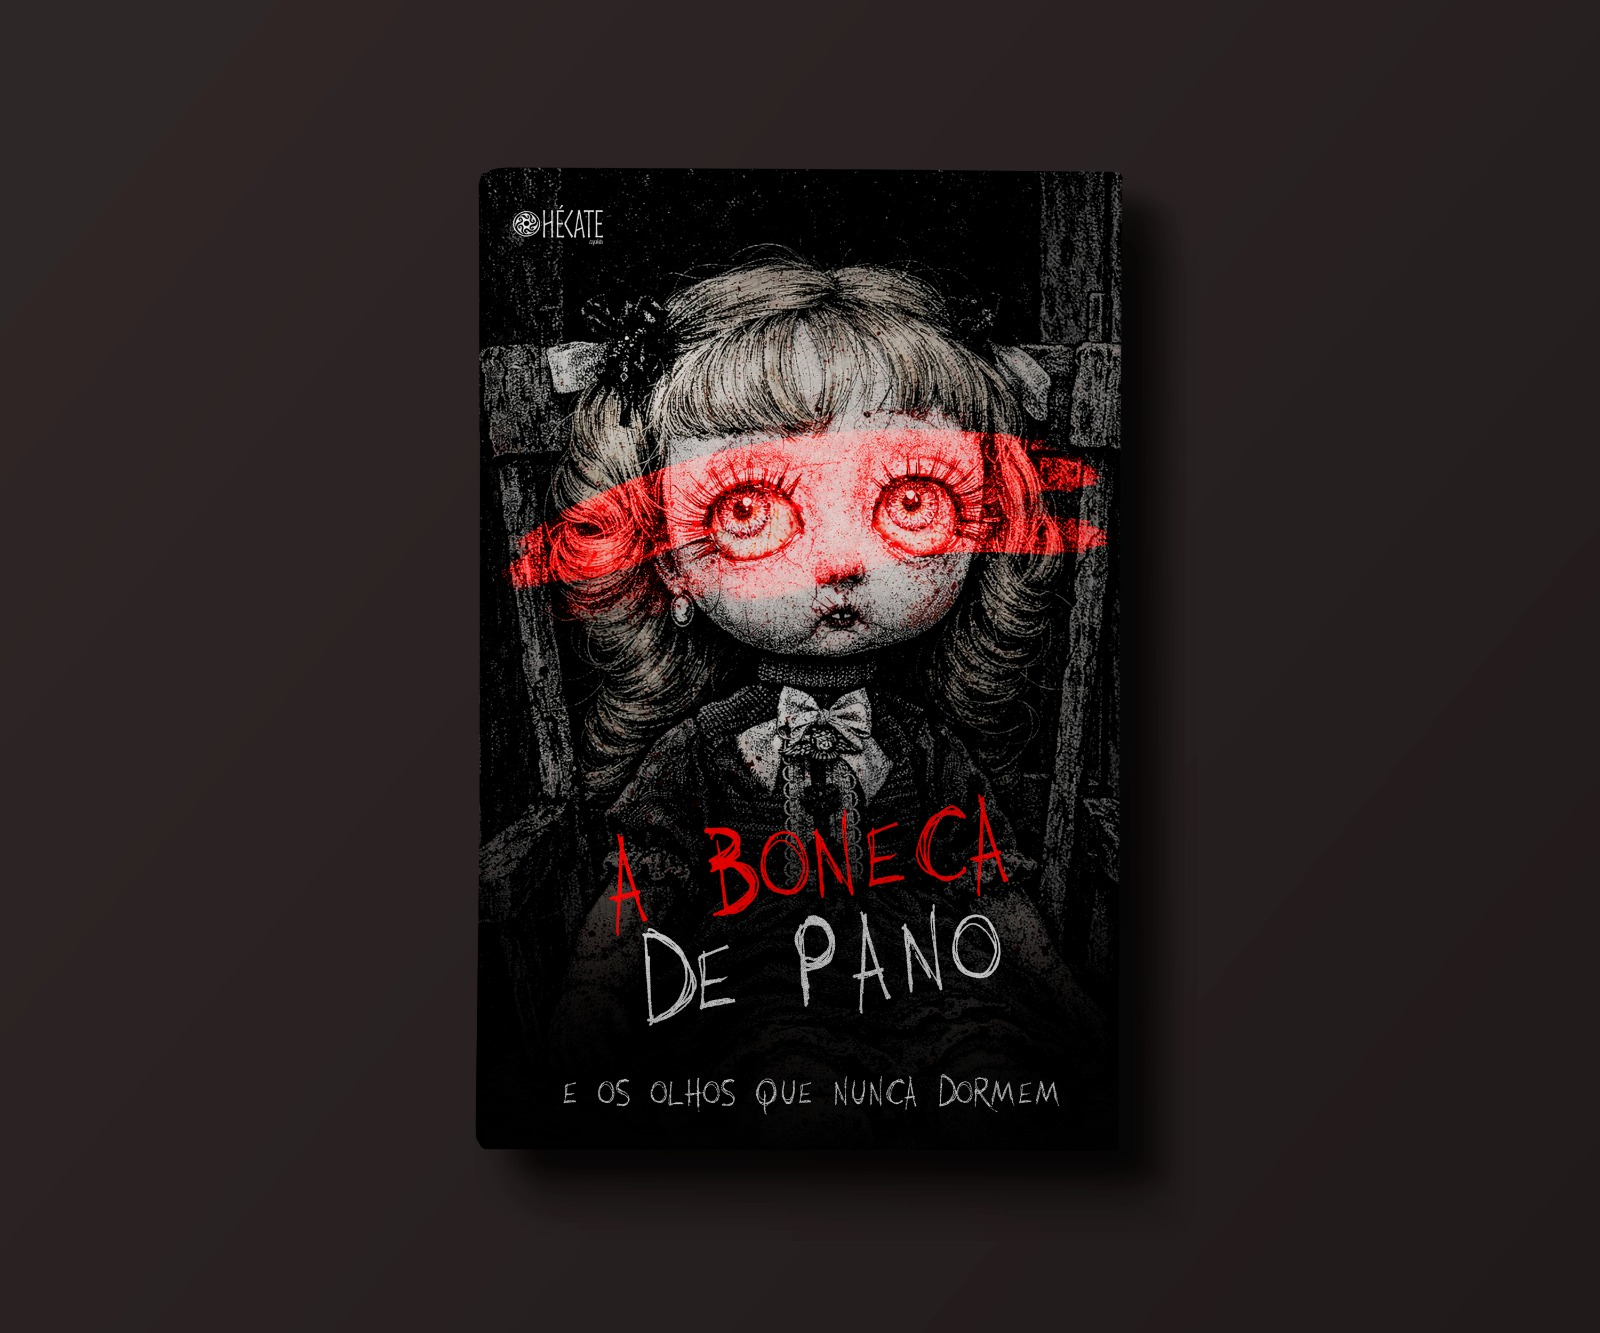
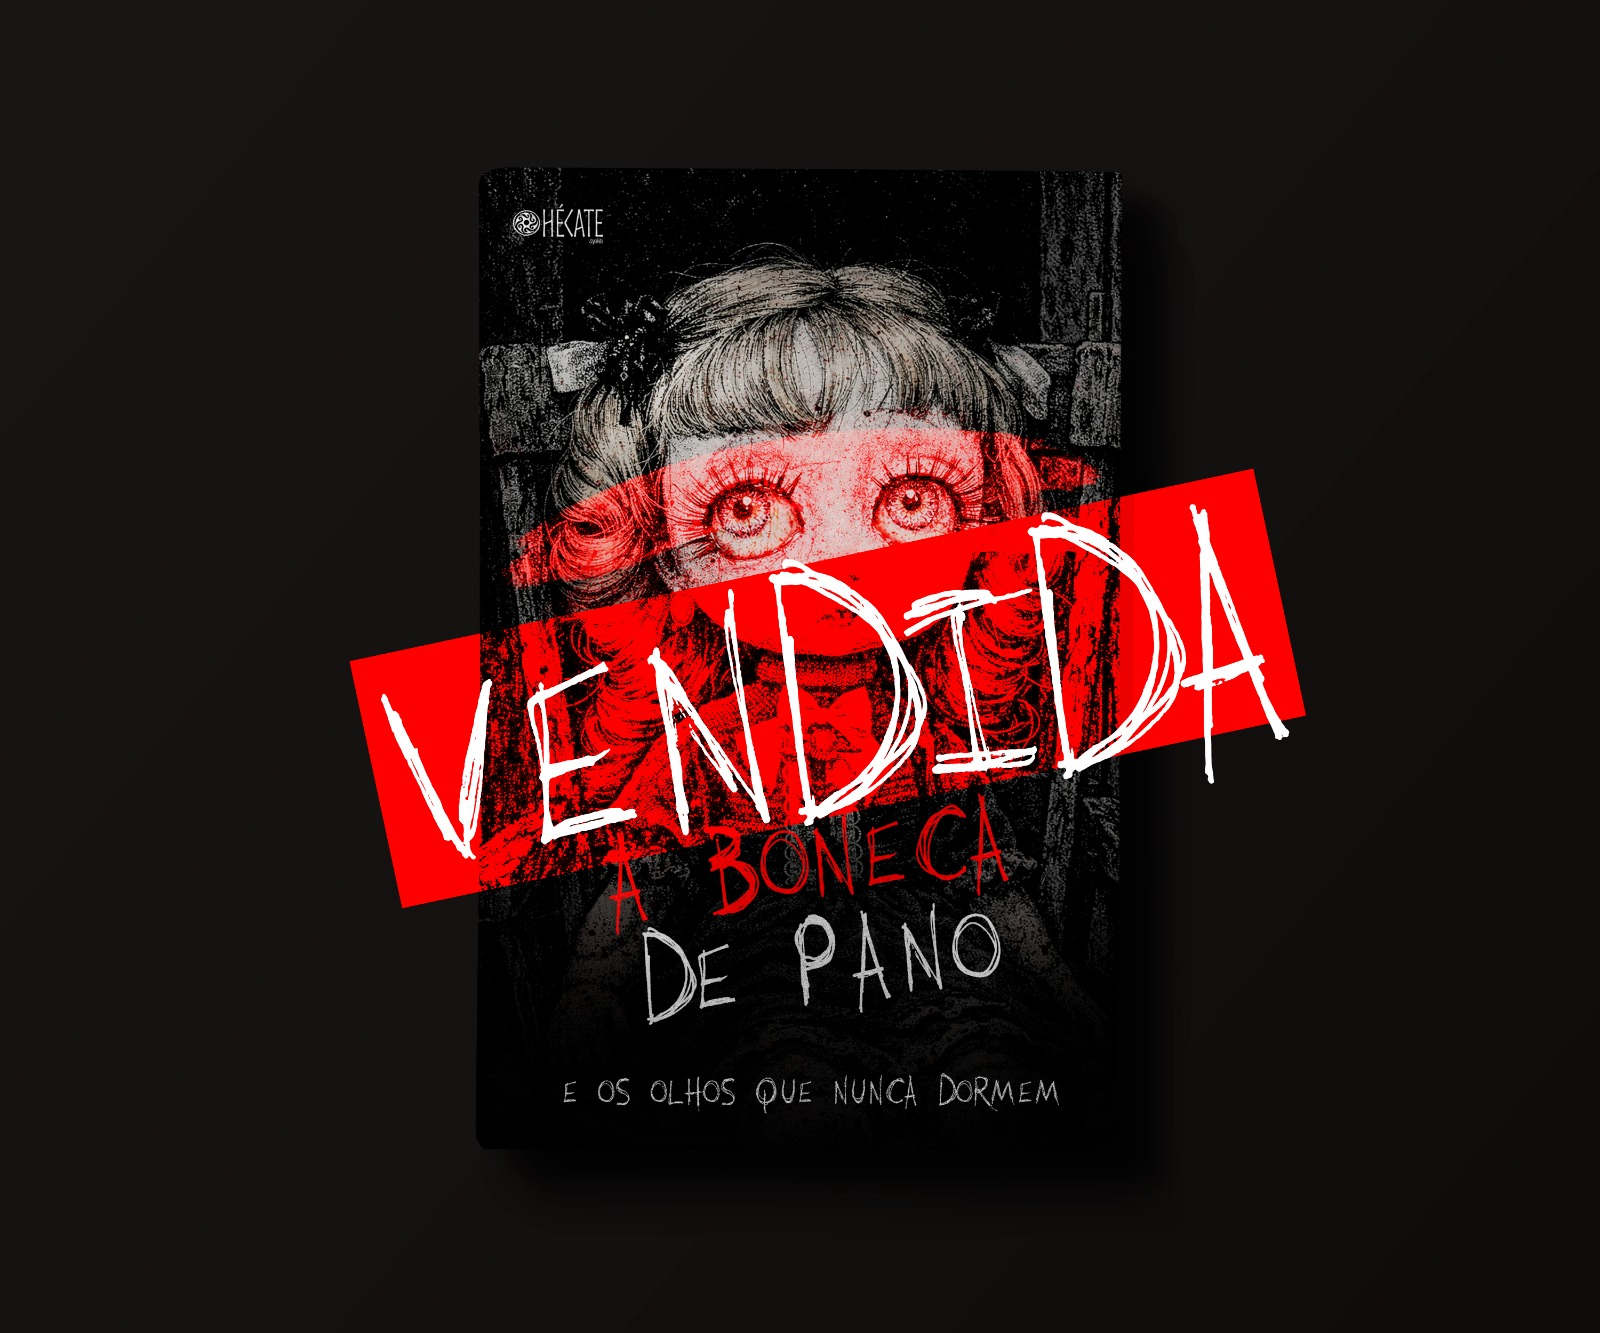
Add image capa4 sold, also changed the price from 110 to 100

diff --git a/src/components/sections/Portfolio.tsx b/src/components/sections/Portfolio.tsx
@@ -8,32 +8,32 @@ const WHATSAPP_NUMBER = "5551991090199";
 const covers = [
   {
     title: "O Chamado Da Morte",
-    price: "R$ 110,00",
+    price: "R$ 100,00",
     image: "/images/capa1.jpg",
   },
   {
     title: "O Que Me Espera Do Lado De Fora?",
-    price: "R$ 110,00",
+    price: "R$ 100,00",
     image: "/images/capa2.jpg",
   },
   {
     title: "Nada Além Do Universo",
-    price: "R$ 110,00",
+    price: "R$ 100,00",
     image: "/images/capa3.jpg",
   },
   {
     title: "A Boneca De Pano",
-    price: "R$ 110,00",
+    price: "R$ 100,00",
     image: "/images/capa4.jpg",
   },
   {
     title: "Objetos Cortantes",
-    price: "R$ 110,00",
+    price: "R$ 100,00",
     image: "/images/capa5.jpg",
   },
   {
     title: "Hemoglobina",
-    price: "R$ 110,00",
+    price: "R$ 100,00",
     image: "/images/capa6.jpg",
   },
 ];
